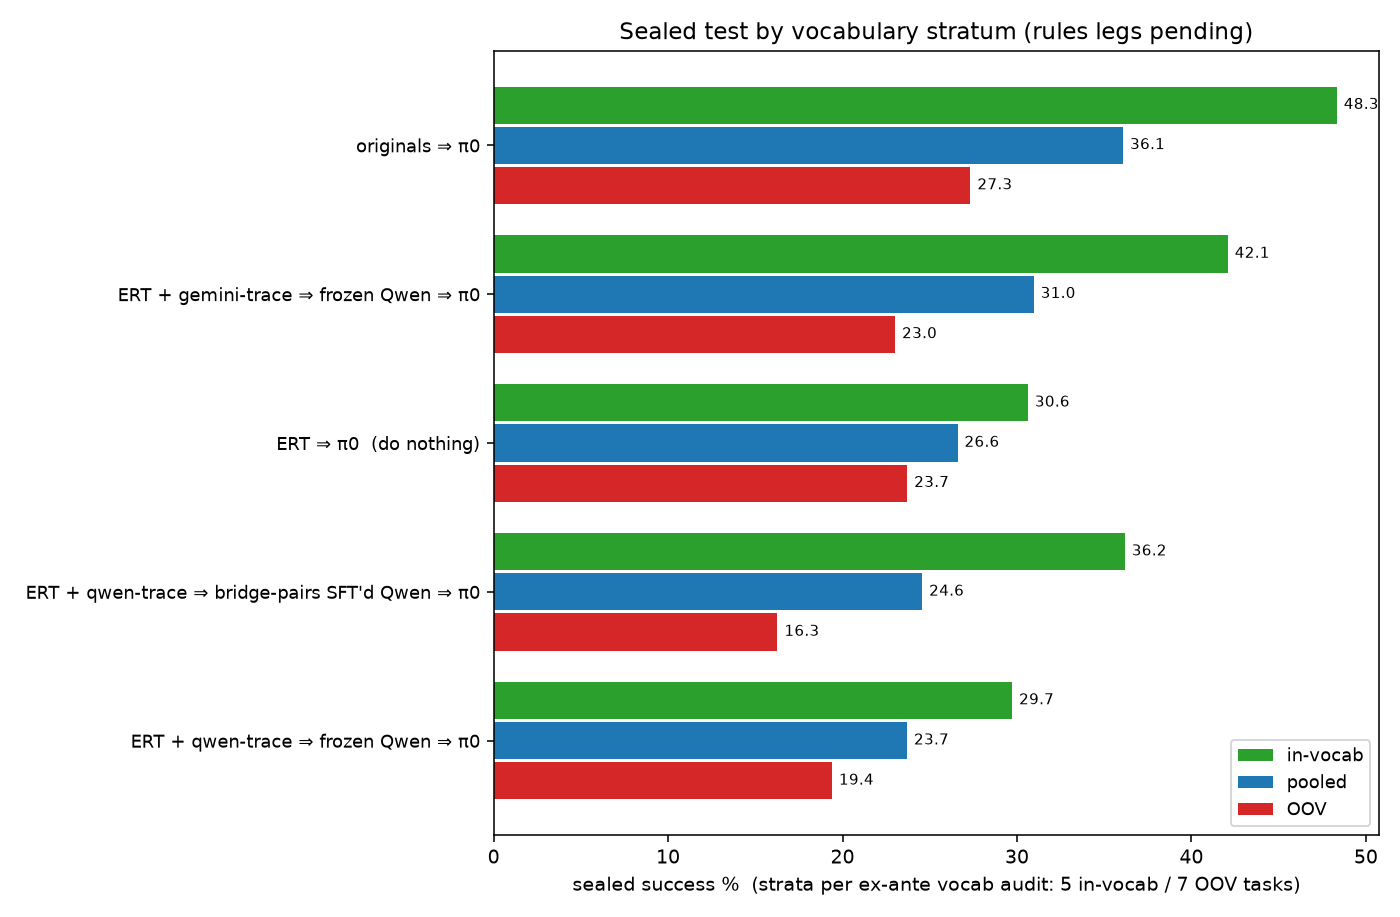
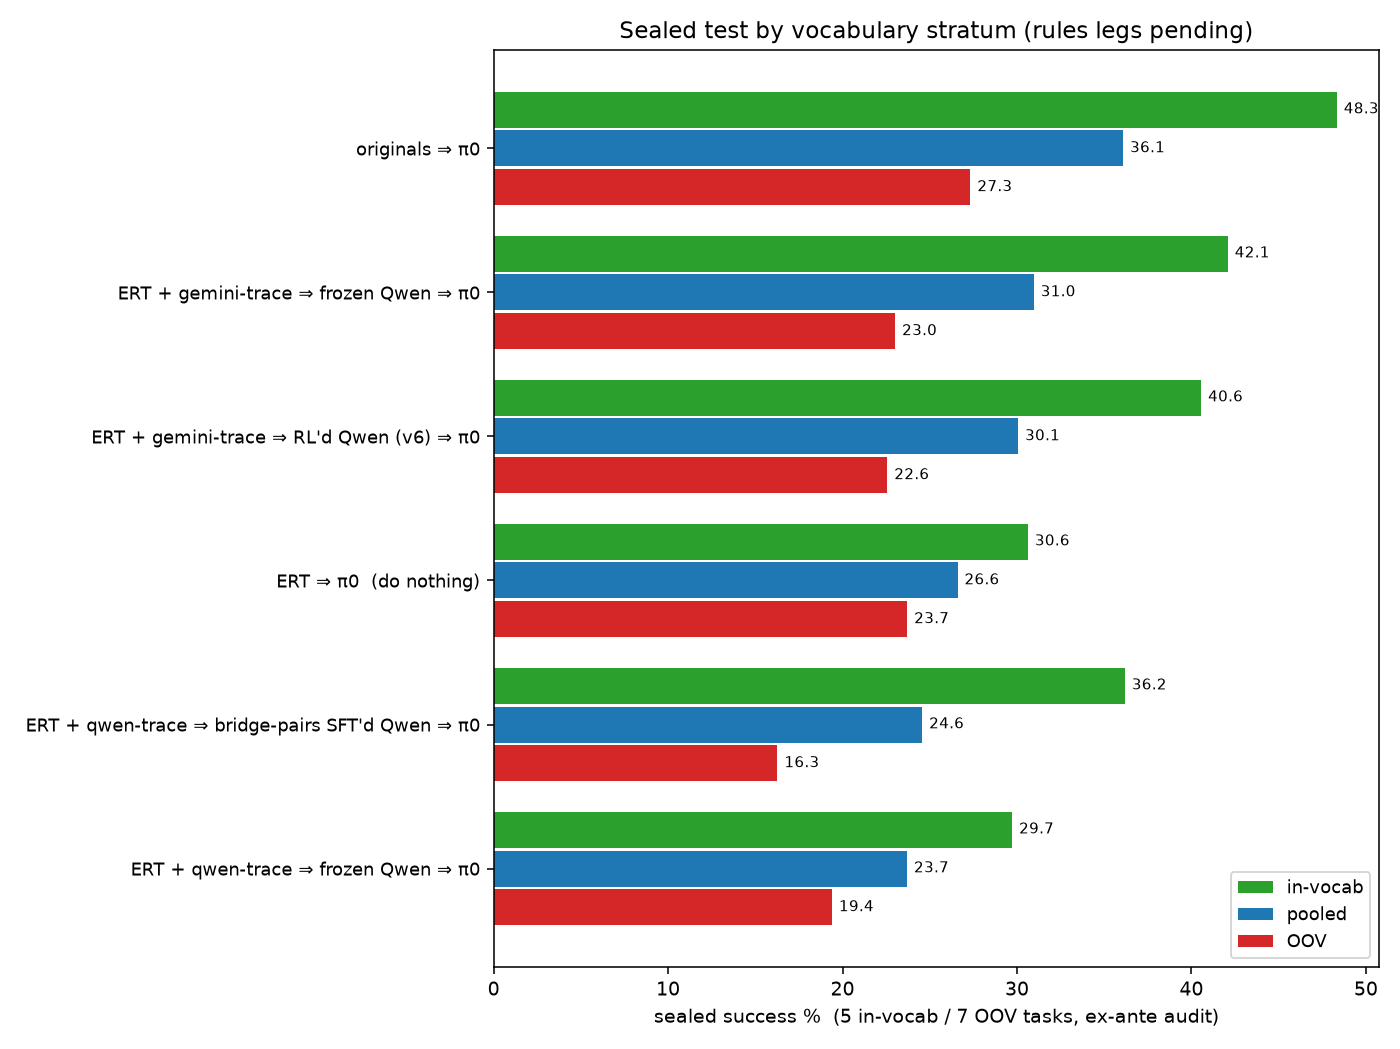
sealed: v6_rl 30.1 == frozen_gemini (RL polish transfers as ~0); chart updated

Changed region(s): [[0.0, 0.0, 0.9829, 0.8855], [0.3379, 0.7939, 0.9829, 0.9771]]

diff --git a/EXPERIMENT.md b/EXPERIMENT.md
@@ -1589,3 +1589,11 @@ twins of both arms — k=8 samples/task/arm, identical conditioning, rolled
 24 layouts x3 (n=72/phrase, ~7h/arm) — measures whether the redistribution
 is a mode-effect or a distribution-effect. Runs on pods freed after the
 rules+bare legs and the pre-registered gemini-rules sampled twin.
+
+## 2026-07-24 ~03:00 — sealed leg 6: v6_rl 30.1 (in-vocab 40.6 / OOV 22.6)
+
+Statistically tied with frozen_gemini_trace (31.0/42.1/23.0), marginally
+below on every stratum. CLEAN NEGATIVE: v6's RL polish (+~5 on val) buys
+~0 on sealed — the pipeline's entire sealed value is the Gemini trace.
+Remaining: oracle leg (pod2, ~05:00 UTC) -> leg3 chain; rules leg 1 grinding
+on pod3 (~08:30 UTC at mfs pace) with L40S-pause option pending user.
